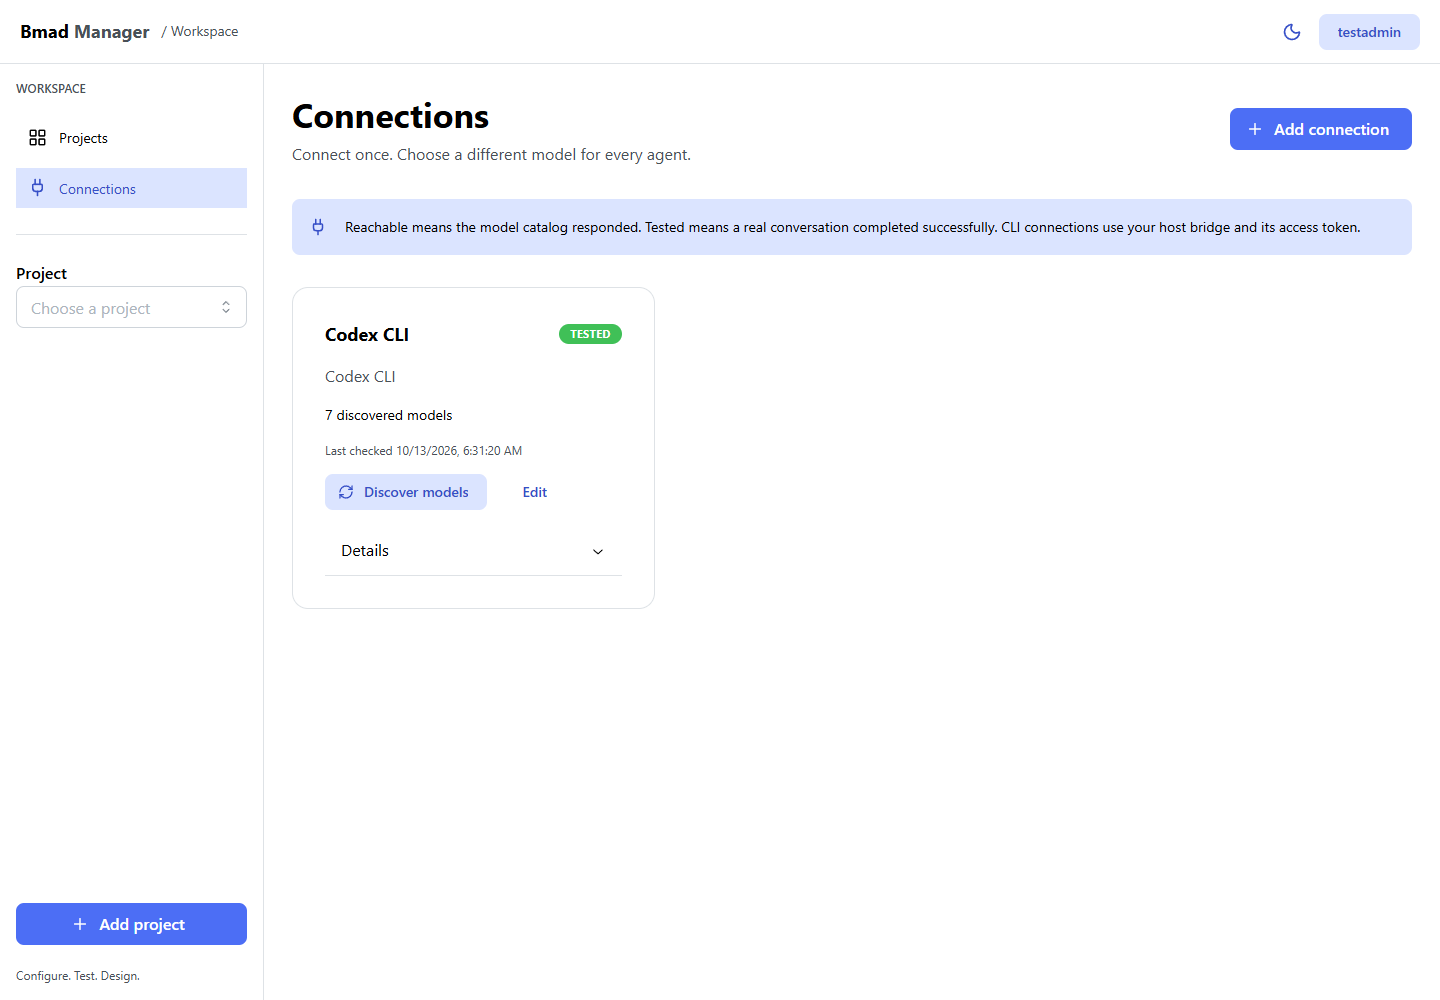
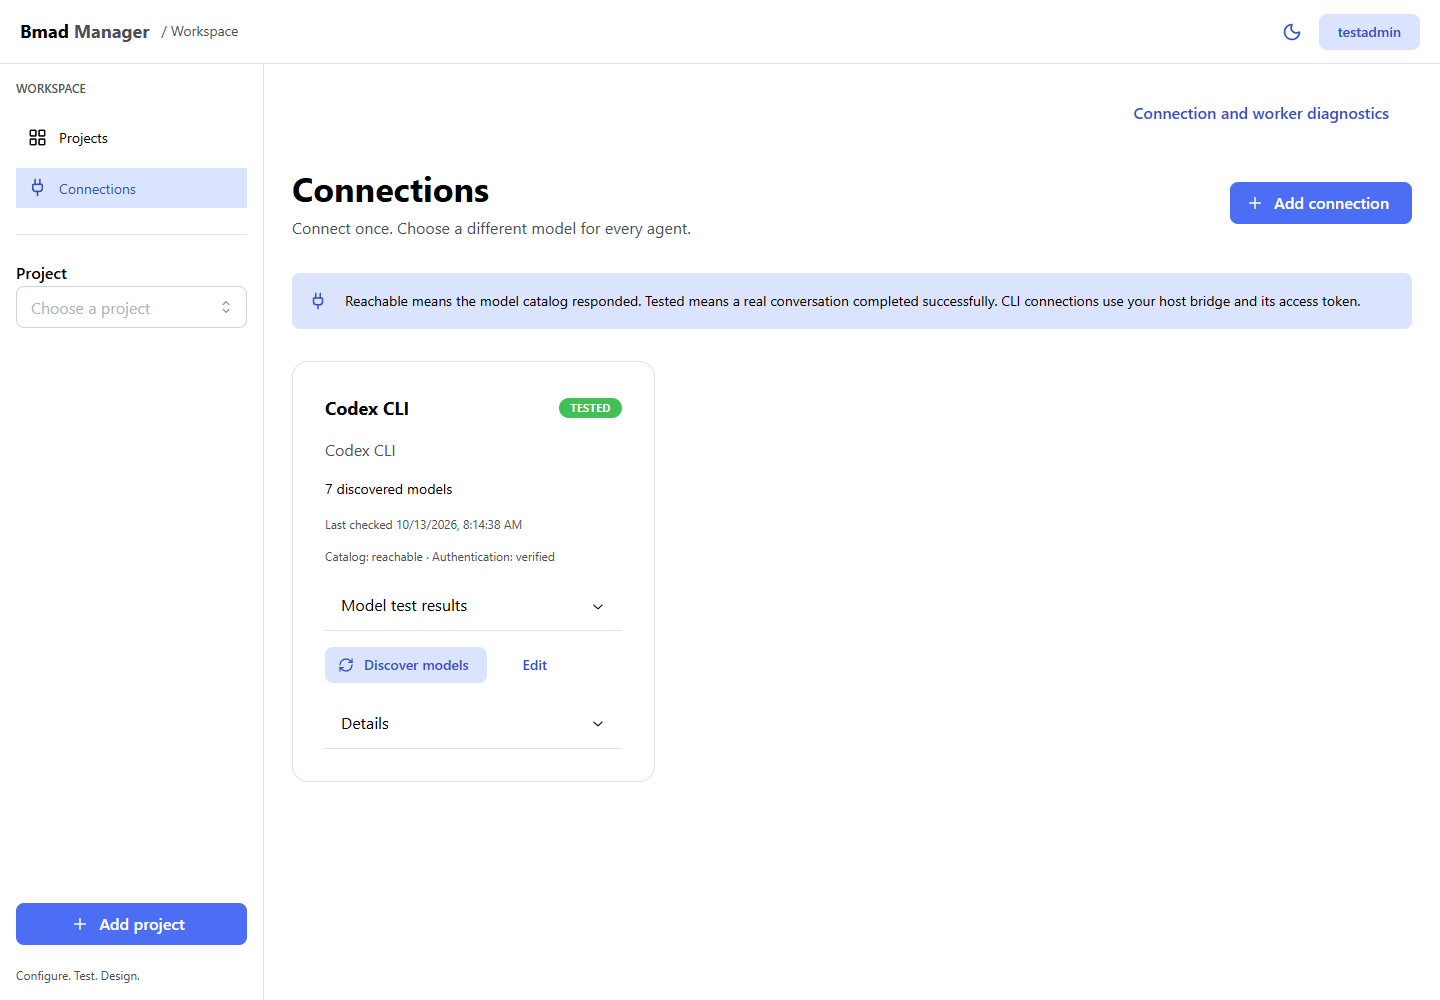
docs: document reliability safeguards and workspace views

Changed region(s): [[0.1875, 0.093, 1.0, 0.434], [0.2188, 0.372, 0.375, 0.682], [0.25, 0.713, 0.2812, 0.744]]

diff --git a/scripts/capture-readme.ts b/scripts/capture-readme.ts
@@ -25,6 +25,9 @@ async function main() {
     viewport: { width: 1440, height: 1000 },
   });
   const page = await context.newPage();
+  page.on("dialog", async (d) => {
+    await d.accept();
+  });
   const errors: string[] = [];
   page.on("pageerror", (e) => errors.push(e.message));
   async function visit(route: string) {
@@ -52,6 +55,7 @@ async function main() {
     await theme("light");
     await snap("projects");
     await visit(project);
+    await page.getByRole("heading",{name:"Project setup",exact:true}).waitFor({timeout:20000});
     await snap("overview");
     await visit(project + "/agents");
     await page
@@ -85,6 +89,8 @@ async function main() {
     await visit("/connections");
     await theme("light");
     await snap("connections");
+    await visit("/diagnostics");
+    await snap("diagnostics");
     await visit(project + "/docs");
     const document = page.getByRole("button", { name: /^epics\.md/ });
     if (await document.count()) {
@@ -124,7 +130,7 @@ async function main() {
         2,
       ) + "\n",
     );
-    console.log("Captured nine README images without saving project changes.");
+    console.log("Captured ten README images without saving project changes.");
   } finally {
     await browser.close();
   }

diff --git a/AGENTS.md b/AGENTS.md
@@ -54,8 +54,11 @@ import { sanitizeError } from "@/lib/errors";
 - **Directory Structure:**
   - Planning artifacts: `_bmad-output/planning-artifacts/` (PRDs, architecture, epics)
   - Implementation artifacts: `_bmad-output/implementation-artifacts/` (sprints, stories)
-  - Vendor-installed skills are read-only; discover installed metadata and supported tool-specific directories (`.agents/skills/`, `.agent/skills/`, `.claude/skills/`, `.cline/skills/`, `.bob/skills/`, `.adal/skills/`).
+  - Vendor-installed skills are read-only; discover installed metadata and supported tool-specific directories (`.agents/skills/`, `.agent/skills/`, `.claude/skills/`, `.cursor/skills/`, `.cline/skills/`, `.bob/skills/`, `.adal/skills/`).
   - Custom overrides & workflows: `_bmad/custom/` (committed) and `*.user.toml` (gitignored)
+- **Installation Compatibility:**
+  - Detect the installation method, exact version, tools, modules, and remembered answers before changing it. Stable legacy installs use pinned `bmad-method@6.12.0`; updates preserve existing settings. Unknown profiles cannot be automatically updated.
+  - Detect v7 through `bmod.toml` records, not module version prefixes. V7 uses its installed `bmad setup` or plugin update flow; Manager does not execute setup agents or silently switch generations.
 - **Non-Interactive CLI Installation:**
   - Always pass `--directory <projectRoot>` to `bmad-method install --yes`. Without `--directory`, the CLI prompts for interactive directory confirmation, causing background processes to hang indefinitely.
 - **Zero-Manual-Typing UI Standard:**
@@ -68,7 +71,9 @@ import { sanitizeError } from "@/lib/errors";
   - Web application never executes system writes or CLI operations directly on local project repositories.
   - All operations are drafted into `prisma.bmadOperation` with `status: "draft"`, previewed in the UI, approved by the user (`status: "queued"`), and executed by the separate worker (`pnpm bmad:worker`).
   - Worker output is redacted to protect sensitive tokens/paths.
-  - Claim queued operations atomically. Validate payloads and paths again in the worker, write configuration files atomically, and restore previous customization files if the installed resolver rejects a change.
+  - Claim queued operations atomically and serialize writes by canonical physical workspace using database leases and heartbeats. Expired operations remain quarantined until the old worker is stopped, partial files are reviewed, and the lock is explicitly released. Never automatically replay interrupted operations.
+  - Check reviewed file/folder fingerprints at approval and application; stale drafts require a fresh review.
+  - Validate payloads and paths again in the worker, write configuration files atomically, and restore previous customization files if the installed resolver rejects a change.
   - Approval previews must explain affected agents, files, and before/after changes using human-readable names. Queued does not mean applied.
 - **Project Lifecycle & Safe Deletion Model:**
   - **Unlink from Dashboard (Safe Default):** Removes project record from database and dashboard only. Local source code, filesystem folders, BMAD artifacts (`_bmad/`, `_bmad-output/`, `.agents/skills/`), and git history remain 100% untouched.
@@ -80,8 +85,9 @@ import { sanitizeError } from "@/lib/errors";
 
 - **Agent Customization:**
   - Central roster descriptors live in `_bmad/custom/config.toml` (or `config.user.toml`) under `[agents.<slug>]` with `name`, `title`, `icon`, `description`, and `skill`.
-  - Supported behavior overrides live in `_bmad/custom/<skill>.toml` (or `<skill>.user.toml`), validated against installed `customize.toml` schemas and the installed resolver when present. The inspector's persona maps to the supported agent identity field.
-  - Use proper TOML parsing/serialization (`smol-toml`), not regular-expression editing. Preserve native/team/personal override semantics and legacy Manager bindings; preview legacy file conversions before worker execution.
+  - Edit role, identity, communication style, principles, facts, hooks, and menu actions separately. Write only edited fields; resets remove overrides. Never save a flattened effective persona back into identity.
+  - Supported behavior overrides live in `_bmad/custom/<skill>.toml` (or `<skill>.user.toml`), validated against installed `customize.toml` schemas and the installed resolver when present. Each edited behavior field maps to its supported native schema field.
+  - Use the BOM-safe plain-table parser in `src/lib/toml.ts` and `smol-toml` serialization, not regular-expression editing. Preserve native/team/personal override semantics and legacy Manager bindings; preview legacy file conversions before worker execution.
   - Scopes: Team scope (`.toml`) is committed to Git; personal scope (`.user.toml`) is gitignored.
   - Reconcile rescans by stable identity. Preserve model routes, conversations, and workflow references; mark missing capabilities unavailable instead of deleting their history.
 - **Skill Customization & Cloning:**
@@ -129,6 +135,7 @@ import { sanitizeError } from "@/lib/errors";
   - Model catalogs come from the actual CLI. Do not hard-code a default model or imply that a provider is authenticated/tested without evidence.
 - **Test Conversations:**
   - `/api/bmad/chat` checks project ownership, agent availability, connection ownership, and conversation/agent binding. Keep recent history bounded.
+  - Require a provider completion marker before recording success or tested status. Keep catalog, authentication, and per-model evidence distinct. Paginate saved messages using stable, ownership-checked message cursors.
   - Normalize streaming into metadata/text/completion/error events; buffer split SSE/UTF-8 chunks and support cancellation/timeouts. Retain partial output and distinguish failed/cancelled turns from completed turns.
   - Test edited model/persona/skill settings without saving them, clearly identifying preview settings. Report adapter-selected provider/model/latency rather than relying on a model to identify itself.
   - Sanitize errors and redact secrets/paths. Decrypt credentials only in internal server code; never expose secret-bearing routing helpers as public server actions.

diff --git a/docs/reliability-upgrade.md b/docs/reliability-upgrade.md
@@ -1,0 +1,33 @@
+# Reliability and compatibility upgrade
+
+Apply the new Prisma migration with pnpm prisma migrate deploy and regenerate the client before starting the updated application or worker. Restart the host bridges to enable their version/login diagnostics. No automatic project-file or credential conversion is performed.
+
+## Agent settings
+
+The inspector edits supported role, identity, communication style, principles, persistent facts, activation hooks, and menu actions independently. It writes only changed fields. Installed/team/personal layers remain distinct. Reset removes an override rather than copying a default into a file. Legacy Manager persona bindings stay visible in previews; their conversion is an explicit draft with file diffs.
+
+Test chat is a configuration preview. File references, hooks, menu actions, and workflow skills are not executed. Provider history is bounded, current oversized messages are rejected rather than silently truncated, and a response needs a provider completion marker to succeed. History pages use message IDs and check both conversation and agent ownership.
+
+## Repository worker
+
+The worker executes serially and acquires a database lease keyed by the canonical physical workspace. Other workers cannot apply changes to that folder at the same time. The heartbeat expires after 60 seconds; interrupted operations become failed and remain quarantined. Stop the previous worker, inspect partial files, then use Release abandoned project lock in Settings. Create a fresh reviewed draft to retry; operations are never automatically replayed.
+
+Draft previews include affected file contents and fingerprints. Approval and worker execution both check fingerprints. Changed files require a fresh draft. Uninstall and skill copying also fingerprint folder contents. Installer output and errors redact common credentials and host paths.
+
+Local imports inspect existing folders and never create directories or run installation. Missing BMad produces a draft only. Installed folders skip installation forms; duplicates open their existing project.
+
+## Supported installation profiles
+
+Stable legacy installs use the pinned bmad-method@6.12.0 CLI with explicit noninteractive directory and action arguments. Updates preserve detected modules, tools, languages, paths, and remembered settings rather than substituting defaults. Unknown versions or incomplete profiles cannot be automatically updated.
+
+V7 Skills CLI/plugin installs are detected through real bmod.toml records. Their module version may start with six; the installation method determines the profile. Use the official installed bmad setup or plugin update flow, then inspect/import the folder. Manager reads these capabilities and supported overrides but does not run setup agents, change installation generations, or execute autonomous work.
+
+All four central TOML layers and all three skill customization layers are supported, including .cursor/skills. Artifact output uses the effective output_folder and active_initiative. TOML parsing handles UTF-8 BOMs and converts tables to plain objects for client serialization.
+
+## Journeys and diagnostics
+
+Overview provides a setup checklist. Workflows start empty until an agent or preset is selected. Nodes show effective model assignments. Unsaved model, persona, skill, and graph edits prompt before leaving. Library filters include initiative and document purpose and prioritize product/design artifacts over internal memory logs.
+
+Connections retain separate catalog, authentication, and per-model conversation evidence with timestamps. Catalog access alone is not authentication. Diagnostics shows the worker heartbeat, host prerequisite versions, CLI bridge version/login/restrictions, and failures with next steps. Missing providers remain unverified.
+
+Unit tests include actual upstream stable and preview schemas with pinned provenance under src/lib/__tests__/fixtures. The Docker journey covers read-only imports, histories, truncated/failed/cancelled streams, stale approvals, physical workspace locks, abandoned operation recovery, protected resources, and both themes at three widths. Mutations use isolated fixtures only.
